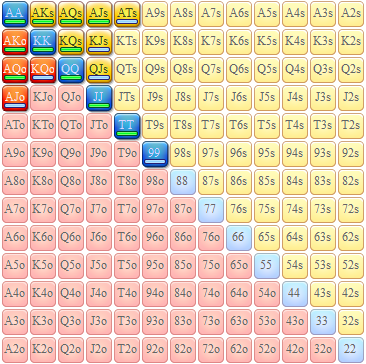
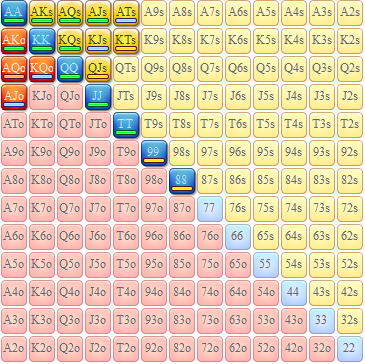
added squeezes vs reg+fish

diff --git a/js/structure.js b/js/structure.js
@@ -207,12 +207,12 @@ const struct = {
       ['vs 10%', 'Green: call vs weak / 4bet vs good <br /> Gray: possible widening vs reg+fish']
     ],
     squeeze: [
-      // 'sq reg+fish OOP', 
-      // 'sq reg+fish IP', 
       'sq vs 10% OOP', 
       'sq vs 15-20% OOP', 
       'sq vs 25% OOP', 
-      'sq vs 45% OOP'
+      'sq vs 45% OOP',
+      ['sq reg+fish (SB) OOP', 'Sizing +1,5-2bb <br> Green: vs 10% <br> Grey: vs 15% <br> Yellow: vs 25% <br> Purple: vs 45%'],
+      ['sq reg+fish IP', 'Green: vs 10% <br> Orange: vs 12,5% <br> Grey: vs 15% <br> Yellow: vs 20%'],
     ],
     
     
